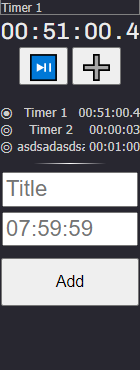
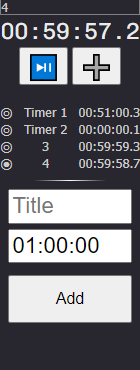
feat: add timer has default timer instead of placeholder

diff --git a/src/renderer/components/AddTimer/AddTimer.tsx b/src/renderer/components/AddTimer/AddTimer.tsx
@@ -5,16 +5,18 @@ import styles from './addTimer.module.css';
 interface IAddTimerProps {
   timerArrayLength: number;
   onAddTimer: (newTimerData: any) => void;
-}
+};
+
+const initTimer = {
+  id: 0,
+  title: '',
+  timerInput: '01:00:00',
+  currentTimer: '01:00:00'
+};
 
 const AddTimer: FC<IAddTimerProps> = (props) => {
   const { timerArrayLength, onAddTimer  } = props;
-  const [ addForm, setAddForm ] = useState<ITask>({
-    id: 0,
-    title: '',
-    timerInput: '',
-    currentTimer: ''
-  });
+  const [ addForm, setAddForm ] = useState<ITask>(initTimer);
 
   function handleUpdateForm(e:React.ChangeEvent<HTMLInputElement>) {
     setAddForm({
@@ -41,7 +43,8 @@ const AddTimer: FC<IAddTimerProps> = (props) => {
     };
 
     onAddTimer(newForm);
-    return resetForm(setAddForm);
+    // return resetForm(setAddForm);
+    return setAddForm(initTimer);
   };
 
   return (
@@ -53,7 +56,7 @@ const AddTimer: FC<IAddTimerProps> = (props) => {
         onChange={e=>handleUpdateForm(e)}
       />
       <input
-        placeholder='07:59:59'
+        placeholder='01:00:00'
         name='timerInput'
         value={addForm.timerInput}
         onChange={e=>handleUpdateForm(e)}

diff --git a/src/renderer/components/AddTimer/addTimer.module.css b/src/renderer/components/AddTimer/addTimer.module.css
@@ -9,14 +9,14 @@
 .add-timer input {
   outline: none;
   padding: 0.15rem 0.15rem;
-  width: 8rem;
+  width: 7.2rem;
   font-size: 1.4rem;
 }
 
 .add-timer button {
   margin-top: 0.4rem;
   height: 3rem;
-  width: 8.6rem;
+  width: 7.8rem;
   font-size: 1rem;
 
   cursor: pointer;

diff --git a/src/renderer/components/Timers/timers.module.css b/src/renderer/components/Timers/timers.module.css
@@ -18,10 +18,8 @@
 }
 
 .timer .title {
-  /* align-self: left; */
   text-align: left;
   overflow: hidden;
-  /* margin-right: 0.25rem; */
 }
 
 .timer .button {
